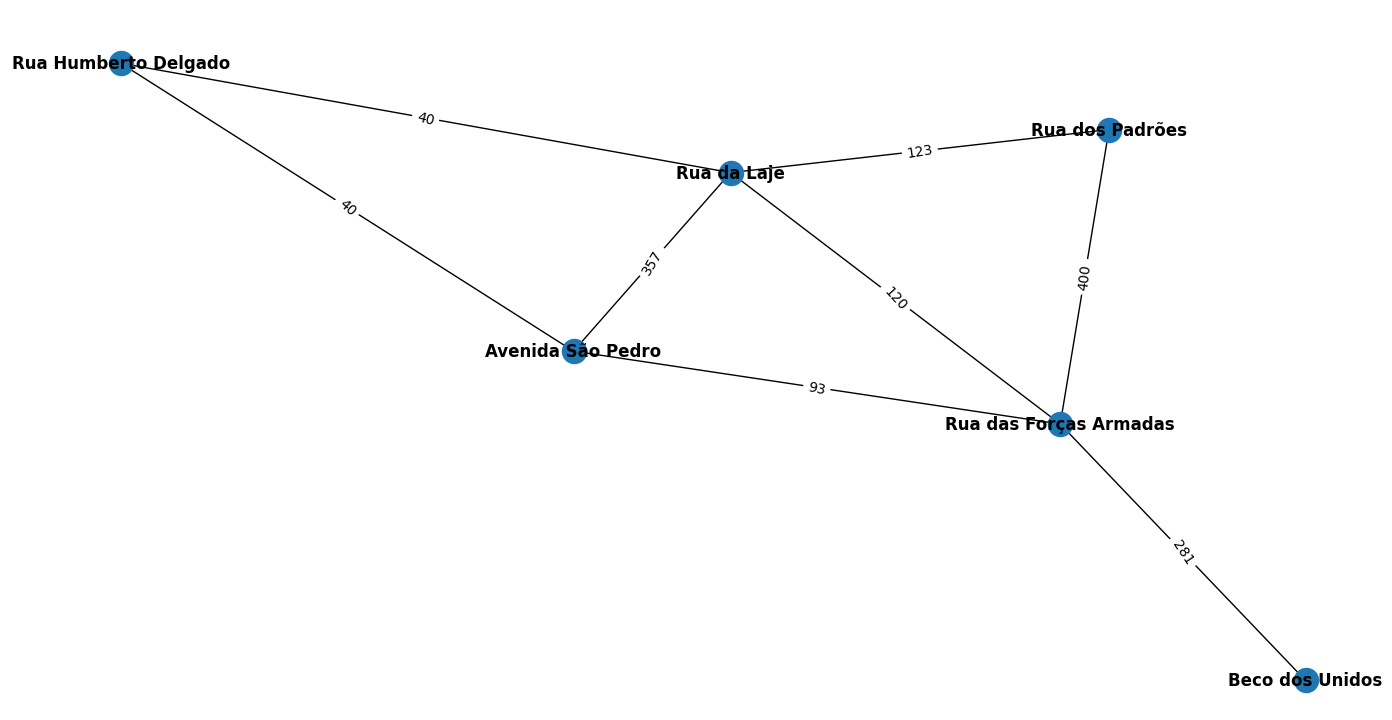
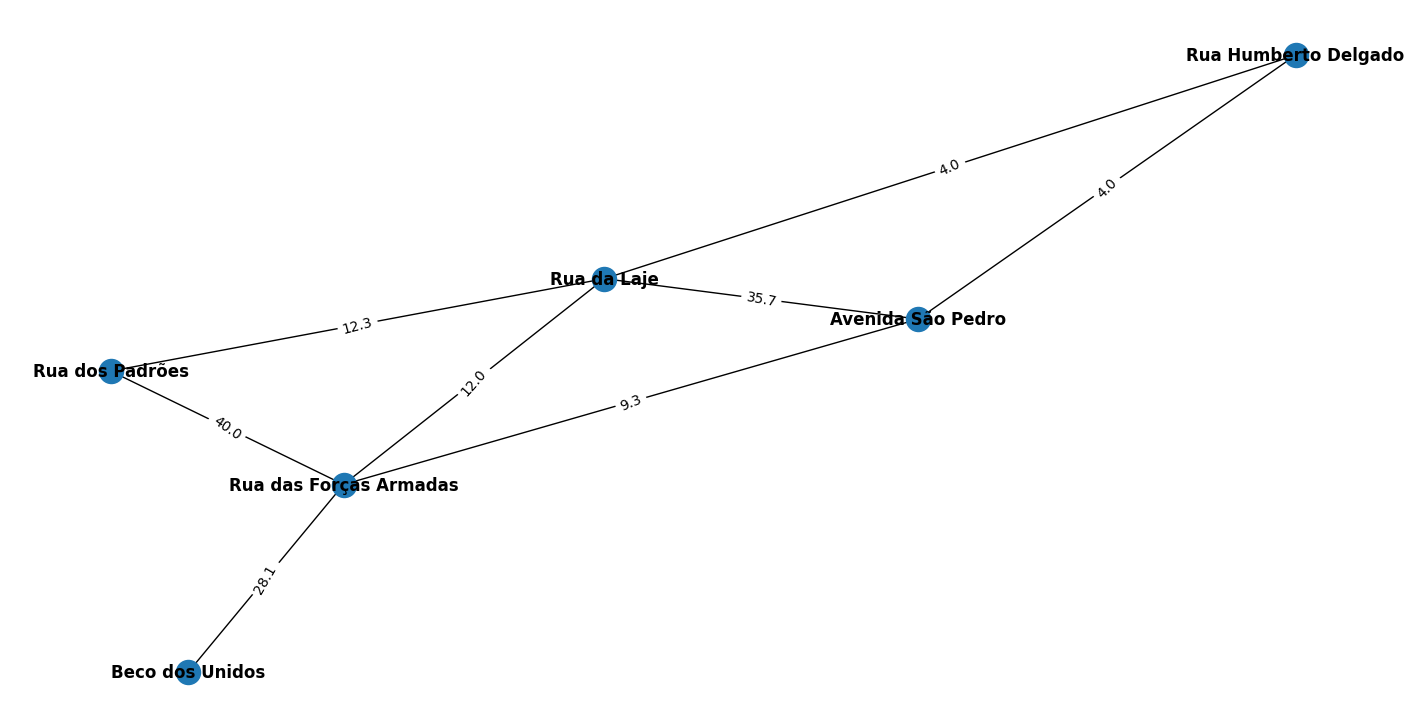
Coreeção de funções & criação delivered

diff --git a/main.py b/main.py
@@ -3,13 +3,6 @@ import sys
 from Grafo import Graph
 from csvfunction import csvfunction
 
-# TODO change how to calculate the time to the local
-
-#se for para criar encomendas:
-#   cliente poe primeiro e ultimo sitio e tempo limite e peso da encomenda
-#   sistema vê o caminho mais ecológico e calcula tempo médio
-#   sistema dá um estafeta atoa e pôe um veículo possível (que consiga entregar a tempo)
-
 
 # TODO (final) calcular o caminho com base no consumo do veículo para ver o mais ecológico
 #   ou seja: um caminho pode ser mais ecologico mas a bicicleta nao chega a tempo, e a mota consegue
@@ -56,6 +49,26 @@ def populate_graph(g, map):
         g.add_edge("Souto", "Valdosende", 1)
         g.add_edge("Valdosende", "Vilar da Veiga", 1)
         g.add_edge("Vilar da Veiga", "Balança", 1)
+    
+    elif(map == '4'):
+        g.add_edge("Avenida São Pedro", "Rua da Laje", 35.7)
+        g.add_edge("Rua da Laje", "Rua das Forças Armadas", 12.0)
+        g.add_edge("Rua das Forças Armadas", "Beco dos Unidos", 28.1)
+        g.add_edge("Rua das Forças Armadas", "Rua dos Padrões", 40.0)
+        g.add_edge("Rua das Forças Armadas", "Avenida São Pedro", 9.3)
+        g.add_edge("Rua dos Padrões", "Rua da Laje", 12.3)
+        g.add_edge("Avenida São Pedro", "Rua Humberto Delgado", 4.0)
+        g.add_edge("Rua Humberto Delgado", "Rua da Laje", 4.0)
+        g.add_edge("Rua de Pesqueiras", "Rua Humberto Delgado", 32.0)
+        g.add_edge("Rua Nova de Santa Cruz", "Rua de Pesqueiras", 63.1)
+        g.add_edge("Rua de Pesqueiras", "Rua do Paço", 5.5)
+        g.add_edge("Rua do Paço", "Avenida São Pedro", 6.0)
+        g.add_edge("Rua do Paço", "Rua das Forças Armadas", 11.5)
+        g.add_edge("Rua das Forças Armadas", "Avenida José Afonso", 49.4)
+        g.add_edge("Avenida Jośe Afonso", "Rua do Seixal", 3.2)
+        g.add_edge("Rua do Seixal", "Rua das Forças Armadas", 6.7)
+        g.add_edge("Rua do Seixal", "Travessa Dom Lopes", 8.8)
+        g.add_edge("Rua do Seixal", "Rua dos Padrões", 8.9)
 
 
 def main():
@@ -67,9 +80,10 @@ def main():
         print("\n1-Desenha Grafo (Mapa)")
         print("2-Imprime entregas")
         print("3-Imprime ranking")
-        print("4-Criar estafeta")
-        print("5-Criar encomenda")
-        print("6-Simular encomendas")
+        print("4-Imprime entregas entregues")
+        print("5-Criar estafeta")
+        print("6-Criar encomenda")
+        print("7-Simular encomendas")
         print("0-Saír")
 
         saida = int(input("\nIntroduza a sua opção: "))
@@ -88,7 +102,7 @@ def main():
             #Imprime ranking
             csvfunction.print_ranking()
         
-        elif saida == 6:
+        elif saida == 7:
             #Encomenda
             line = input("\nIntroduza número da linha de encomenda: ")
             
@@ -127,7 +141,9 @@ def main():
                     else:
                         rank_deduction = 0.5
 
-                    csvfunction.rank_courier(line, rank_deduction)
+                    rank = csvfunction.rank_courier(line, rank_deduction)
+
+                    csvfunction.deliver(line, time_of_travel, rank)
 
                 elif search == 3:
                     #Procura BFS
@@ -147,14 +163,18 @@ def main():
                     else:
                         rank_deduction = 0.5
 
-                    csvfunction.rank_courier(line, rank_deduction)
+                    rank = csvfunction.rank_courier(line, rank_deduction)
 
-            
+                    csvfunction.deliver(line, time_of_travel, rank)
+
         elif saida == 4:
+            csvfunction.print_delivered()
+            
+        elif saida == 5:
             #Cria estafeta
             csvfunction.create_courier()
 
-        elif saida == 5:
+        elif saida == 6:
             #Cria encomenda
             csvfunction.create_order()
 

diff --git a/csvfunction.py b/csvfunction.py
@@ -15,31 +15,7 @@ class csvfunction:
         with open('csv/ranking.csv', 'r') as ranking_csv:
             reader_csv = csv.reader(ranking_csv)
             for row in reader_csv:
-                print(row)
-
-
-    def altera_tempo(line):
-        #Imprime linha a alterar
-        with open('csv/delivery.csv', 'r') as delivery_csv:
-            reader_csv = csv.reader(delivery_csv, delimiter=',')
-            for row in reader_csv:
-                if row[0] == line:
-                    print(f"Line {line}: {row}")
-
-        #Altera o tempo
-        tempo = int(input("Introduza o tempo limite do estafeta em minutos: "))
-        lines_csv = []
-        with open('csv/delivery.csv', 'r') as delivery_csv:
-            reader_csv = csv.reader(delivery_csv)
-            for row in reader_csv:
-                if row[0] == line:
-                    row[6] = str(tempo)
-                lines_csv.append(row)
-
-        with open('csv/delivery.csv', 'w', newline='') as delivery_csv:
-            writer_csv = csv.writer(delivery_csv)
-
-            writer_csv.writerows(lines_csv)
+                print(row[:-1])
 
 
     def search_start(line):
@@ -148,10 +124,12 @@ class csvfunction:
         with open("csv/ranking.csv", 'w') as ranking_csv:
             writer_csv = csv.writer(ranking_csv)
             writer_csv.writerows(data)
+        
+        return new_classificaçao
 
     
     def check_time(line, time):
-        with open('csv/delivery.csv', 'r') as delivery_csv:
+        with open("csv/delivery.csv", 'r') as delivery_csv:
             reader_delivery_csv = csv.reader(delivery_csv)
             for row in reader_delivery_csv:
                 if row[0] == line:
@@ -162,3 +140,26 @@ class csvfunction:
                         print("\nO estafeta não fez a entrega a tempo")
                         print("O estafeta terá uma dedução automática no seu ranking")
                         return False
+                    
+    
+    def deliver(line, time, rank):
+        line_delivered = []
+        with open("csv/delivery.csv", 'r') as delivery_csv:
+            reader_delivery_csv = csv.reader(delivery_csv)
+            for row_delivery in reader_delivery_csv:
+                if row_delivery[0] == line:
+                    line_delivered = row_delivery
+
+        line_delivered.append(time)
+        line_delivered.append(rank)
+
+        with open("csv/delivered.csv", 'a', newline='\n') as delivered_csv:
+            writer_delivered_csv = csv.writer(delivered_csv)
+            writer_delivered_csv.writerow(line_delivered)
+
+    
+    def print_delivered():
+        with open("csv/delivered.csv", 'r') as deliver_csv:
+            reader_deliver_csv = csv.reader(deliver_csv)
+            for row in reader_deliver_csv:
+                print(row)

diff --git a/Grafo.py b/Grafo.py
@@ -1,8 +1,8 @@
 import networkx as nx
 import matplotlib.pyplot as plt
 import math
-from queue import Queue
 
+from queue import Queue
 from Nodo import Node
 
 
@@ -181,3 +181,10 @@ class Graph:
             # funçao calcula custo caminho
             custo = self.calcula_custo(path)
         return (path, custo)
+    
+
+    def getNeighbours(self, nodo):
+        lista = []
+        for (adjacente, peso) in self.m_graph[nodo]:
+            lista.append((adjacente, peso))
+        return lista
